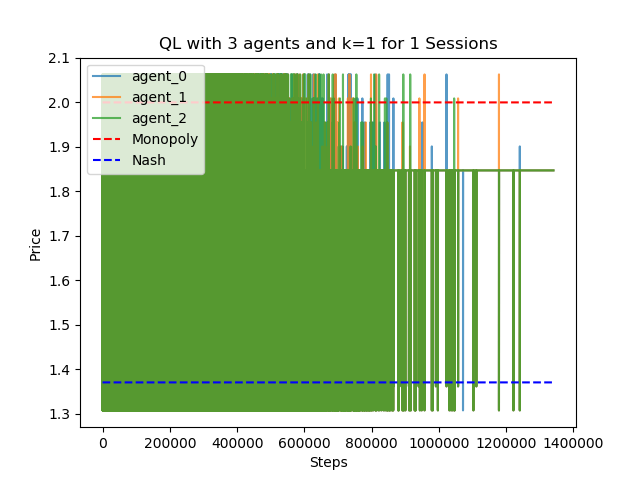
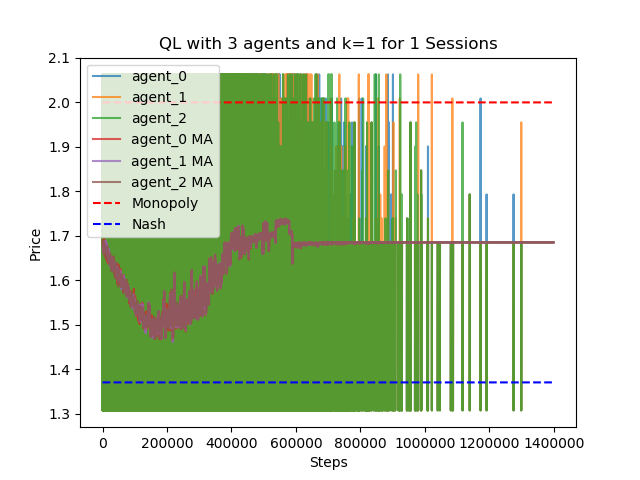
auto

Changed region(s): [[0.125, 0.125, 0.875, 0.875], [0.2188, 0.9062, 0.9375, 0.9375]]

diff --git a/gym_bertrandcompetition/envs/bertrand_competition_discrete.py b/gym_bertrandcompetition/envs/bertrand_competition_discrete.py
@@ -8,6 +8,9 @@ import numpy as np
 from io import StringIO
 import matplotlib.pyplot as plt
 import pickle
+import pandas as pd
+
+# warnings.filterwarnings('ignore')
 
 class BertrandCompetitionDiscreteEnv(MultiAgentEnv):
     metadata = {'render.modes': ['human']}
@@ -95,8 +98,7 @@ class BertrandCompetitionDiscreteEnv(MultiAgentEnv):
 
     def demand(self, a, p, mu, agent_idx):
         ''' Demand as a function of product quality indexes, price, and mu. '''
-        q = np.exp((a[agent_idx] - p[agent_idx]) / mu) / (np.sum(np.exp((a - p) / mu)) + np.exp(self.a_0 / mu))
-        return q
+        return np.exp((a[agent_idx] - p[agent_idx]) / mu) / (np.sum(np.exp((a - p) / mu)) + np.exp(self.a_0 / mu))
 
     def step(self, actions_dict):
         ''' MultiAgentEnv Step '''
@@ -110,8 +112,6 @@ class BertrandCompetitionDiscreteEnv(MultiAgentEnv):
         for i in range(actions_idx.size):
             self.action_history[self.players[i]].append(actions_idx[i])
 
-        reward = np.array([0.0] * self.num_agents)
-
         if self.k > 0:
             obs_players = np.array([self.action_history[self.players[i]][-self.k:] for i in range(self.num_agents)]).flatten()
             observation = dict(zip(self.players, [obs_players for i in range(self.num_agents)]))
@@ -119,6 +119,7 @@ class BertrandCompetitionDiscreteEnv(MultiAgentEnv):
             observation = dict(zip(self.players, [self.numeric_low for _ in range(self.num_agents)]))
 
         self.prices = self.action_price_space.take(actions_idx)
+        reward = np.array([0.0] * self.num_agents)
 
         for i in range(self.num_agents):
             reward[i] = (self.prices[i] - self.c_i) * self.demand(self.a, self.prices, self.mu, i)
@@ -129,7 +130,7 @@ class BertrandCompetitionDiscreteEnv(MultiAgentEnv):
             self.convergence_counter += 1
         else:
             self.convergence_counter = 0
-            
+
         if self.convergence_counter == self.convergence or self.current_step == self.max_steps:
             done = {'__all__': True}
         else:
@@ -177,12 +178,14 @@ class BertrandCompetitionDiscreteEnv(MultiAgentEnv):
             
         return observation
 
-    def plot(self):
+    def plot(self, window=1000):
         '''Plot action history.'''
         n = len(self.action_history[self.players[0]])
         x = np.arange(n)
         for player in self.players:
             plt.plot(x, self.action_price_space.take(self.action_history[player]), alpha=0.75, label=player)
+        for player in self.players:
+            plt.plot(x, pd.Series(self.action_price_space.take(self.action_history[player])).rolling(window=window).mean(), alpha=0.75, label=player + ' MA')
         plt.plot(x, np.repeat(self.pM, n), 'r--', label='Monopoly')
         plt.plot(x, np.repeat(self.pN, n), 'b--', label='Nash')
         plt.xlabel('Steps')

diff --git a/gym_bertrandcompetition/envs/bertrand_competition_continuous.py b/gym_bertrandcompetition/envs/bertrand_competition_continuous.py
@@ -94,8 +94,7 @@ class BertrandCompetitionContinuousEnv(MultiAgentEnv):
 
     def demand(self, a, p, mu, agent_idx):
         ''' Demand as a function of product quality indexes, price, and mu. '''
-        q = np.exp((a[agent_idx] - p[agent_idx]) / mu) / (np.sum(np.exp((a - p) / mu)) + np.exp(self.a_0 / mu))
-        return q
+        return np.exp((a[agent_idx] - p[agent_idx]) / mu) / (np.sum(np.exp((a - p) / mu)) + np.exp(self.a_0 / mu))
 
     def step(self, actions_dict):
         ''' MultiAgentEnv Step '''
@@ -109,14 +108,13 @@ class BertrandCompetitionContinuousEnv(MultiAgentEnv):
         for i in range(actions_list.size):
             self.action_history[self.players[i]].append(actions_list[i])
 
-        reward = np.array([0.0] * self.num_agents)
-
         if self.k > 0:
             obs_players = np.array([self.action_history[self.players[i]][-self.k:] for i in range(self.num_agents)]).flatten()
             observation = dict(zip(self.players, [obs_players for i in range(self.num_agents)]))
         else:
             observation = dict(zip(self.players, [self.numeric_low for _ in range(self.num_agents)]))
 
+        reward = np.array([0.0] * self.num_agents)
         self.prices = actions_list
 
         for i in range(self.num_agents):
@@ -165,12 +163,14 @@ class BertrandCompetitionContinuousEnv(MultiAgentEnv):
             
         return observation
 
-    def plot(self):
+    def plot(self, window=1000):
         '''Plot action history.'''
         n = len(self.action_history[self.players[0]])
         x = np.arange(n)
         for player in self.players:
             plt.plot(x, self.action_history[player], alpha=0.75, label=player)
+        for player in self.players:
+            plt.plot(x, pd.Series(self.action_history[player]).rolling(window=window).mean(), alpha=0.75, label=player + ' MA')
         plt.plot(x, np.repeat(self.pM, n), 'r--', label='Monopoly')
         plt.plot(x, np.repeat(self.pN, n), 'b--', label='Nash')
         plt.xlabel('Steps')

diff --git a/gym_bertrand_test.py b/gym_bertrand_test.py
@@ -22,7 +22,7 @@ from ray.tune.logger import pretty_print
 
 # CHANGE PARAMETERS FOR TESTING
 # Parameters
-num_agents = 2
+num_agents = 3
 k = 1
 m = 15
 max_steps = 1000000000
